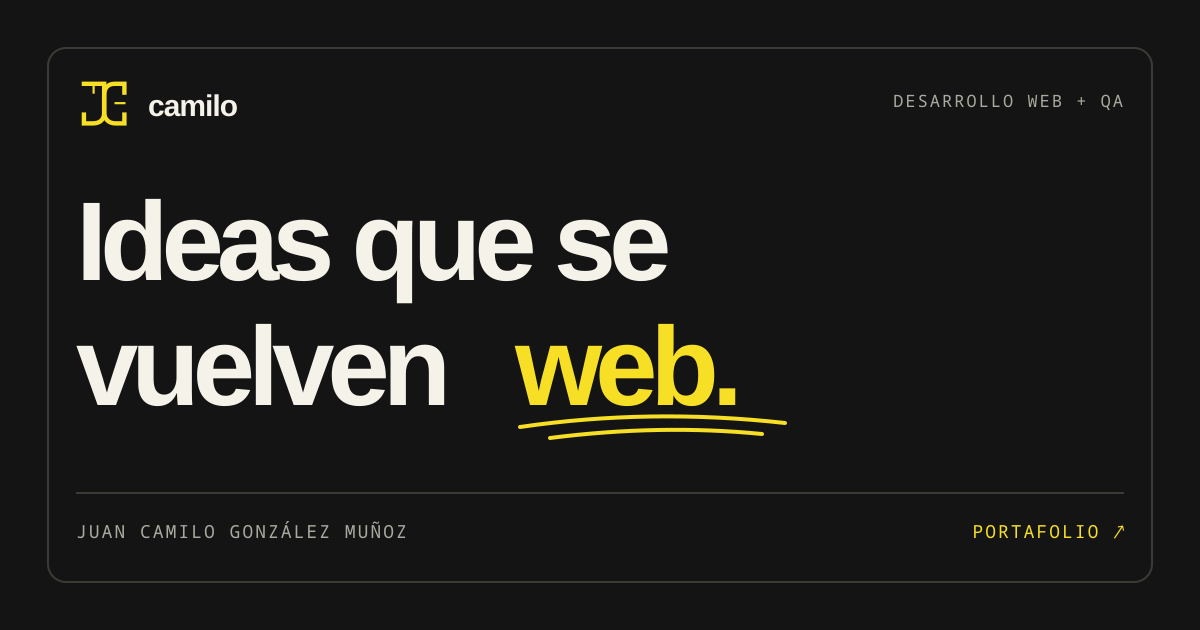
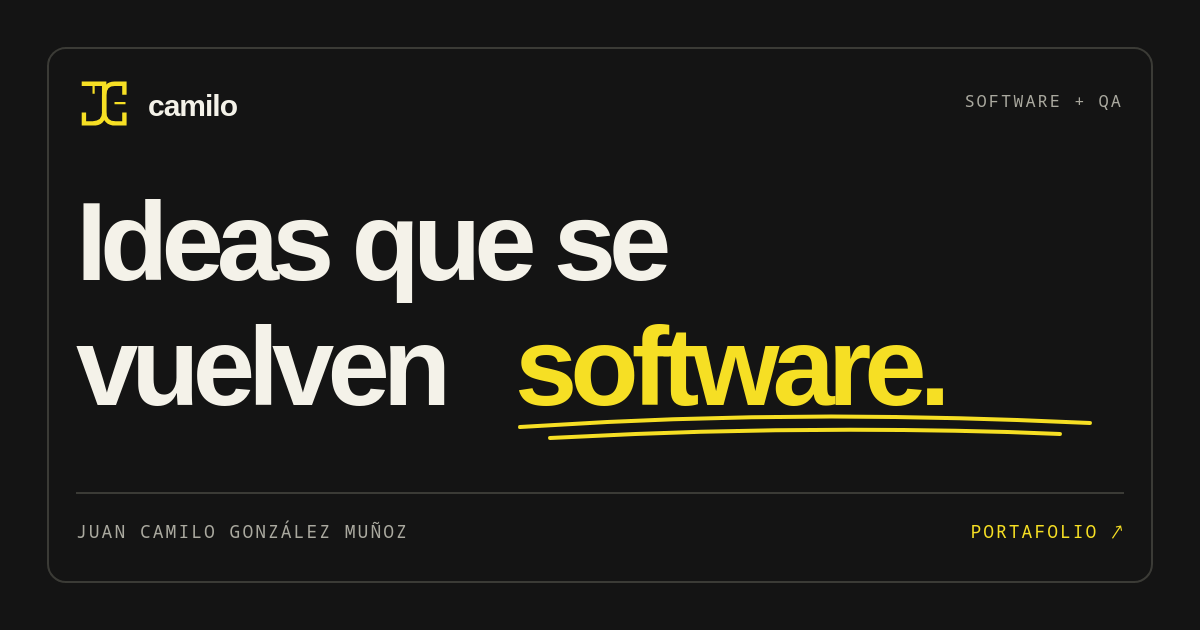
Refine software portfolio, character animations and section navigation

diff --git a/src/App.jsx b/src/App.jsx
@@ -1,4 +1,5 @@
 import { useEffect, useRef, useState } from 'react';
+import Character from './components/Character';
 import videoStore from './assets/video1.1.mp4';
 import videoBudget from './assets/video2.1.mp4';
 import videoAuraverse from './assets/video-auraverse.mp4';
@@ -67,38 +68,25 @@ function Brand() {
   </a>;
 }
 
-function Character() {
-  const [wink, setWink] = useState(false);
-  return <button className={`character ${wink ? 'is-winking' : ''}`} aria-label="Saludar al personaje" aria-pressed={wink} onClick={() => setWink(!wink)}>
-    <svg viewBox="0 0 320 340" fill="none" aria-hidden="true">
-      <ellipse cx="163" cy="318" rx="93" ry="10" fill="currentColor" opacity=".12" />
-      <g stroke="#151515" strokeWidth="7" strokeLinecap="round" strokeLinejoin="round">
-        <path d="M123 242L115 295 83 304Q76 317 96 316L128 314 146 249M189 243L206 297 237 305Q247 317 227 317L195 313 169 249" fill="#f6df24" />
-        <path d="M83 152Q35 175 44 221M231 151Q273 156 282 115M272 124L267 100M280 119L285 94M285 126L300 107" />
-        <path d="M46 216Q30 206 28 221L33 239M43 223L46 244M51 219L57 237" />
-        <rect x="77" y="54" width="164" height="202" rx="75" fill="#f6df24" transform="rotate(-9 159 155)" />
-        <path d="M124 176Q151 199 179 169" />
-      </g>
-      <g className="character-eyes" fill="#151515"><ellipse cx="123" cy="128" rx="10" ry="24" transform="rotate(-9 123 128)"/><ellipse className="wink-eye" cx="169" cy="121" rx="10" ry="24" transform="rotate(-9 169 121)"/></g>
-      <path d="M201 33L207 13M220 42L237 28M224 60L248 59" stroke="#f6df24" strokeWidth="5" strokeLinecap="round"/>
-    </svg>
-    <span className="character-note">Un poco de código.<br/>Mucha curiosidad.</span>
-  </button>;
-}
 
 export default function App() {
-  const tickerRef = useRef(null);
-  const firstTickerGroupRef = useRef(null);
+  const pageRef = useRef(null);
 
   useEffect(() => {
-    const mobile = window.matchMedia('(max-width: 500px), (pointer: coarse)');
-    const positionTicker = () => {
-      if (!tickerRef.current) return;
-      tickerRef.current.scrollLeft = mobile.matches ? firstTickerGroupRef.current?.offsetWidth ?? 0 : 0;
-    };
-    positionTicker();
-    mobile.addEventListener('change', positionTicker);
-    return () => mobile.removeEventListener('change', positionTicker);
+    const targets = pageRef.current.querySelectorAll('.section-heading, .project-layout, .about > div, .contact-title');
+    const observer = new IntersectionObserver((entries) => {
+      entries.forEach((entry) => {
+        if (entry.isIntersecting) {
+          entry.target.classList.add('is-visible');
+          observer.unobserve(entry.target);
+        }
+      });
+    }, { threshold: 0.08 });
+    targets.forEach((target) => {
+      target.classList.add('reveal');
+      observer.observe(target);
+    });
+    return () => observer.disconnect();
   }, []);
 
   return <>
@@ -107,15 +95,15 @@ export default function App() {
       <Brand />
       <nav aria-label="Navegación principal"><a href="#projects">Proyectos <span>{String(projects.length).padStart(2, '0')}</span></a><a href="#about">Sobre mí</a><a className="nav-contact" href="#contact">Hablemos <Arrow /></a></nav>
     </header>
-    <main>
+    <main ref={pageRef}>
       <section className="hero" id="inicio">
         <div className="hero-top eyebrow"><span>JUAN CAMILO GONZÁLEZ MUÑOZ</span><span className="availability"><i /> ABIERTO A OPORTUNIDADES</span></div>
-        <h1>Ideas que se<br/>vuelven <span className="web-word">web<svg viewBox="0 0 410 25" preserveAspectRatio="none" aria-hidden="true"><path d="M5 17Q177 -3 401 11M36 23Q197 5 375 20" /></svg></span><span className="period">.</span></h1>
-        <div className="hero-bottom"><div className="hero-copy"><p>Desarrollador de software.<br/>Construyo experiencias digitales que<br className="desktop-break"/> se ven bien y resuelven problemas reales.</p><a className="pill yellow" href="#projects">Explora mi trabajo <DownArrow /></a></div><Character /></div>
-        <div className="hero-foot eyebrow"><span>DESARROLLO WEB & UN TOQUE DE PERSONALIDAD</span><a href="#projects">SIGUE EXPLORANDO <DownArrow /></a></div>
+        <h1>Ideas que se<br/>vuelven <span className="software-word">software<svg viewBox="0 0 410 25" preserveAspectRatio="none" aria-hidden="true"><path d="M5 17Q177 -3 401 11M36 23Q197 5 375 20" /></svg></span><span className="period">.</span></h1>
+        <div className="hero-bottom"><div className="hero-copy"><p>Desarrollador de software.<br/>Me mueve resolver problemas complejos. <br className="desktop-break"/>Conecto lógica, datos e interfaces para <br className="desktop-break"/>construir software que tenga sentido.</p><a className="pill yellow" href="#projects">Explora mi trabajo <DownArrow /></a></div><Character /></div>
+        <div className="hero-foot eyebrow"><span>SOFTWARE, CURIOSIDAD & UN TOQUE DE PERSONALIDAD</span><a href="#projects">SIGUE EXPLORANDO <DownArrow /></a></div>
       </section>
-      <div ref={tickerRef} className="ticker" role="img" aria-label={`Tecnologías: ${technologies.join(', ')}`}>
-        <div aria-hidden="true">{[0, 1].map(copy => <span className="ticker-group" ref={copy === 0 ? firstTickerGroupRef : undefined} key={copy}>
+      <div className="ticker" role="img" aria-label={`Tecnologías: ${technologies.join(', ')}`}>
+        <div aria-hidden="true">{[0, 1].map(copy => <span className="ticker-group" key={copy}>
           {technologies.map(technology => <span className="ticker-item" key={technology}>{technology.toUpperCase()} <Sparkle /></span>)}
         </span>)}</div>
       </div>
@@ -134,7 +122,7 @@ export default function App() {
           <div className="project-layout"><div className="project-info"><h3>{project.name}</h3>{project.status && <span className="project-status"><i />{project.status}</span>}<p>{project.description}</p><dl className="project-context"><div><dt>MI APORTE</dt><dd>{project.contribution}</dd></div><div><dt>ENFOQUE</dt><dd>{project.focus}</dd></div><div><dt>BASE TÉCNICA</dt><dd>{project.implementation}</dd></div></dl><ul className="tags">{project.tech.map(tech => <li key={tech}>{tech}</li>)}</ul><a className="project-link" href={project.url} target="_blank" rel="noreferrer">Ver {project.name.replace(/\.$/, '')} <Arrow /></a></div><div className="project-preview"><div className="browser-bar" aria-hidden="true"><span className="browser-dots"><i /><i /><i /></span><span>{project.previewLabel}</span><Arrow /></div><video controls playsInline loading="lazy" preload="none" poster={project.poster} aria-label={project.number === '01' ? 'Recorrido por Inicio, Buscar, Batallas y Ranking de Auraverse' : `Vista previa de ${project.name}`} src={`${project.video}#t=0.1`} /><p className="preview-caption">{project.number === '01' ? 'INICIO · BUSCAR · BATALLAS · RANKING' : 'DALE PLAY Y MÍRALO EN ACCIÓN'} <PlayIcon /></p></div></div>
         </article>)}</div>
       </section>
-      <section className="about section-wrap" id="about"><div><p className="eyebrow">02 / DETRÁS DEL CÓDIGO</p><h2>Una mente curiosa.<br/>Manos en el <em>código.</em></h2><div className="about-sticker" aria-hidden="true">{ '</>' }</div></div><div className="about-copy"><p>Soy Juan Camilo, desarrollador de software con experiencia en QA y soporte TI. Me interesa construir aplicaciones útiles, cuidar su calidad y entender las necesidades de quienes las usan.</p><p>Trabajo con React, JavaScript y herramientas como Supabase para conectar la interfaz con lo que pasa detrás. Cada proyecto es una oportunidad para aprender, cuidar los detalles y construir algo mejor.</p><div className="experience-list" aria-label="Experiencia profesional">
+      <section className="about section-wrap" id="about"><div><p className="eyebrow">02 / DETRÁS DEL CÓDIGO</p><h2>Una mente curiosa.<br/>Manos en el <em>código.</em></h2><div className="about-sticker" aria-hidden="true">{ '</>' }</div></div><div className="about-copy"><p>Soy Juan Camilo, desarrollador de software con experiencia en QA y soporte TI. Me gusta entrar en problemas complejos, entender cómo encajan sus piezas y convertirlos en software útil. Mi experiencia en QA y soporte me enseñó a pensar también en lo que puede fallar y en quienes usan cada sistema.</p><p>Trabajo con React, Next.js, Nest.js y PostgreSQL para conectar interfaces, lógica de negocio y datos. Me interesa seguir creciendo en arquitectura de software y construir sistemas cada vez más sólidos, sin perder el cuidado por los detalles.</p><div className="experience-list" aria-label="Experiencia profesional">
           <h3>Experiencia y proyecto actual</h3>
           <article className="experience-item">
             <div className="experience-header"><h4>Auraverse</h4><span>Actualidad</span></div>
@@ -148,7 +136,7 @@ export default function App() {
             <div className="experience-header"><h4>Alcaldía de Armenia</h4><span>6 meses</span></div>
             <p>Mesa de ayuda y control de aplicativos institucionales · Armenia, Quindío</p>
           </article>
-        </div><a className="pill outline" href={cv} download="CV_Juan_Camilo.pdf">Descargar mi CV <DownArrow /></a><div className="about-details"><span>MI ENFOQUE</span><p>Interfaces cuidadas.<br/>Soluciones prácticas.<br/>Aprendizaje constante.</p></div></div></section>
+        </div><a className="pill outline" href={cv} download="CV_Juan_Camilo.pdf">Descargar mi CV <DownArrow /></a><div className="about-details"><span>MI ENFOQUE</span><p>Lógica y datos bien conectados.<br/>Calidad en cada detalle.<br/>Aprendizaje constante.</p></div></div></section>
       <section className="contact section-wrap" id="contact"><div className="contact-top eyebrow"><span>03 / EL SIGUIENTE PASO</span><span>¿TIENES ALGO EN MENTE?</span></div><a className="contact-title" href="mailto:camilo9171@gmail.com" aria-label="Escribir a Juan Camilo por correo"><h2>Hagamos<br/>algo <RotatingContactWord /></h2><span className="contact-arrow"><Arrow /></span></a><div className="contact-bottom"><p>Una idea, un proyecto o una oportunidad.<br/>Me encantará saber de ti.</p><div className="contact-options">
           <a className="contact-whatsapp" href="https://wa.me/573117863431" target="_blank" rel="noreferrer">Hablemos por WhatsApp <Arrow /></a>
           <a className="contact-email" href="mailto:camilo9171@gmail.com">camilo9171@gmail.com <Arrow /></a>

diff --git a/src/index.css b/src/index.css
@@ -9,7 +9,7 @@
   --line:#3b3b36}
 *{box-sizing:border-box}
 html{scroll-behavior:smooth;
-  scroll-padding-top:100px}
+  scroll-padding-top:0}
 body{margin:0}
 html,body,#root{min-width:0;max-width:100%}
 a{color:inherit;
@@ -76,9 +76,9 @@ h1{font-size:clamp(76px,10.7vw,178px);
   margin:65px 0 0;
   position:relative;
   z-index:1}
-.web-word{color:var(--yellow);
+.software-word{color:var(--yellow);
   position:relative}
-.web-word svg{position:absolute;
+.software-word svg{position:absolute;
   bottom:-8px;
   left:0;
   width:100%;
@@ -121,14 +121,14 @@ h1{font-size:clamp(76px,10.7vw,178px);
   color:var(--yellow)}
 .character svg{width:100%;
   transition:transform .3s}
-.character:hover svg{transform:rotate(-8deg) translateY(-8px)}
+
 .character-note{font-family:monospace;
   font-size:11px;
   line-height:1.5;
   display:block;
   transform:rotate(-7deg);
   color:#c4c2b6}
-.is-winking .wink-eye{transform:translateY(110px) scaleY(.1)}
+
 .hero-foot{padding:20px 0;
   display:flex;
   justify-content:space-between;
@@ -431,7 +431,7 @@ nav .nav-contact{border:none;
   margin-top:20px;
   font-size:19px}
 .footer>div{gap:14px}
-.web-word svg{height:12px;
+.software-word svg{height:12px;
   bottom:-5px}
 }
 @media(prefers-reduced-motion:reduce){html{scroll-behavior:auto}
@@ -479,9 +479,9 @@ nav .nav-contact{border:none;
 .contact-word.is-leaving{animation:contact-word-exit .3s ease-in both}
 @keyframes contact-word-enter{from{opacity:0;transform:translateY(.22em) rotate(2deg)}to{opacity:1;transform:translateY(0) rotate(0)}}
 @keyframes contact-word-exit{from{opacity:1;transform:translateY(0) rotate(0)}to{opacity:0;transform:translateY(-.16em) rotate(-2deg)}}
-.web-word svg path{stroke-dasharray:900;stroke-dashoffset:900;animation:web-underline-draw .85s .15s ease-out forwards}
-@keyframes web-underline-draw{to{stroke-dashoffset:0}}
-@media(prefers-reduced-motion:reduce){.web-word svg path{stroke-dashoffset:0}}
+.software-word svg path{stroke-dasharray:900;stroke-dashoffset:900;animation:software-underline-draw .85s .15s ease-out forwards}
+@keyframes software-underline-draw{to{stroke-dashoffset:0}}
+@media(prefers-reduced-motion:reduce){.software-word svg path{stroke-dashoffset:0}}
 
 .project-context{display:grid;gap:12px;margin:22px 0 0;padding:18px 0 0;border-top:1px solid #505046}
 .project-context>div{display:grid;grid-template-columns:75px 1fr;gap:12px}
@@ -489,4 +489,65 @@ nav .nav-contact{border:none;
 .project-context dd{margin:0;color:#c0bfb2;font-size:12px;line-height:1.5}
 @media(max-width:500px){.project-context>div{grid-template-columns:68px 1fr;gap:8px}}
 @media(max-width:500px){.contact-word-measure.is-long,.contact-word-long{font-size:.55em}}
-@media(max-width:500px),(pointer:coarse){.ticker{overflow-x:auto;overflow-y:hidden;-webkit-overflow-scrolling:touch;scrollbar-width:none}.ticker::-webkit-scrollbar{display:none}.ticker>div{animation:none}}
+
+
+/* The same motion language on touch, keyboard and pointer devices. */
+.hero h1{font-size:clamp(58px,9.5vw,158px)}
+.software-word{display:inline-block}
+.hero-top{animation:soft-enter .7s both}
+.hero h1{animation:soft-enter .85s .1s both}
+.hero-copy{animation:soft-enter .85s .2s both}
+.character{padding:0;touch-action:manipulation}
+.character svg{display:block;overflow:visible}
+.character-body{transform-origin:160px 315px;animation:character-idle 4.8s ease-in-out infinite}
+.character-shadow{transform-origin:163px 328px;animation:shadow-breathe 4.8s ease-in-out infinite}
+.character-right-arm{transform-origin:231px 151px;animation:character-wave 6s ease-in-out infinite}
+.character-left-arm{transform-origin:83px 152px}
+.character-gaze{transform:translate(var(--look-x,0px),var(--look-y,0px));transition:transform .15s}
+.character-eyes{transform-origin:146px 125px;animation:character-blink 5.5s infinite}
+.character-note{min-height:3em;max-width:210px;margin:0 auto}
+.character-hint{display:block;margin-top:6px;color:var(--yellow);font:8px monospace;letter-spacing:1px;transform:rotate(-7deg)}
+.character-sparks{transform-origin:220px 45px;animation:spark-pulse 3s ease-in-out infinite}
+.character-laptop,.character-code-bits{opacity:0;transition:opacity .2s,transform .3s;transform:translateY(12px)}
+.character-wave .character-right-arm{animation:hello-wave .45s ease-in-out infinite alternate}
+.character-jump .character-body{animation:character-jump .8s ease-in-out 3}
+.character-jump .character-shadow{animation:jump-shadow .8s ease-in-out 3}
+.character-jump .character-right-arm{animation:none;transform:none}
+.character-code .character-laptop,.character-code .character-code-bits{opacity:1;transform:translateY(0)}
+.character-code .character-right-arm{animation:none;transform:rotate(75deg)}
+.character-code .character-code-symbol{animation:code-type .6s steps(2,end) infinite}
+.character-code .character-code-bits{animation:code-float 1.2s ease-in-out infinite alternate}
+.reveal{opacity:0;transform:translateY(24px);transition:opacity .7s,transform .7s cubic-bezier(.2,.7,.2,1)}
+.reveal.is-visible,.reveal:focus-within{opacity:1;transform:translateY(0)}
+.about-sticker{animation:sticker-rock 6s ease-in-out infinite}
+.project-link:hover .icon-arrow,.project-link:focus-visible .icon-arrow{transform:translate(4px,-4px)}
+.project-link .icon-arrow{transition:transform .25s}
+@keyframes soft-enter{from{opacity:0;transform:translateY(18px)}to{opacity:1;transform:translateY(0)}}
+@keyframes character-idle{0%,100%{transform:translateY(0) rotate(-2deg)}50%{transform:translateY(-9px) rotate(2deg)}}
+@keyframes shadow-breathe{50%{transform:scaleX(.88);opacity:.08}}
+@keyframes character-wave{0%,60%,100%{transform:rotate(0)}68%,84%{transform:rotate(-16deg)}76%,92%{transform:rotate(9deg)}}
+@keyframes hello-wave{from{transform:rotate(-22deg)}to{transform:rotate(14deg)}}
+@keyframes character-blink{0%,43%,47%,100%{transform:scaleY(1)}45%{transform:scaleY(.08)}}
+@keyframes spark-pulse{0%,100%{opacity:.45;transform:scale(.9)}50%{opacity:1;transform:scale(1.08)}}
+@keyframes character-jump{0%,100%{transform:translateY(0) scale(1)}15%{transform:scale(1.06,.9)}48%{transform:translateY(-36px) rotate(-8deg)}80%{transform:scale(1.08,.92)}}
+@keyframes jump-shadow{48%{transform:scaleX(.6);opacity:.05}}
+@keyframes code-type{50%{opacity:.35}}
+@keyframes code-float{to{transform:translateY(-8px)}}
+@keyframes sticker-rock{0%,100%{transform:rotate(-12deg)}50%{transform:rotate(-4deg) translateY(-5px)}}
+@media(min-width:1100px) and (max-height:849px){.hero h1{font-size:min(9.5vw,16vh)}}
+@media(max-width:800px){.hero h1{font-size:10.8vw}.character{bottom:18px}}
+@media(max-width:500px){.hero h1{font-size:10.8vw}.hero-bottom{min-height:360px}.character{bottom:14px;width:145px}.character-note{max-width:140px}.character-hint{font-size:7px;letter-spacing:.4px}.about-sticker{display:grid;width:75px;height:75px;font-size:27px;margin-top:30px}.ticker>div{animation-duration:85s}}
+@media(max-width:360px){.hero-bottom{min-height:385px}.character{width:135px}}
+@media(hover:none){.ticker:hover>div{animation-play-state:running}}
+@media(prefers-reduced-motion:reduce){.reveal{opacity:1;transform:none}.character-body,.character-right-arm,.character-shadow,.character-gaze{transform:none}.character-jump .character-right-arm{animation:none;transform:none}}
+
+@media(max-width:500px){.hero-copy p{max-width:290px}.desktop-break{display:none}.hero-copy .pill{margin-top:22px}}
+
+/* Align anchor links with the content, accounting for each section's padding. */
+.section-wrap[id]{scroll-margin-top:calc(28px - var(--anchor-inset,110px))}
+.about{--anchor-inset:90px}
+.contact{--anchor-inset:40px}
+.character-wink-eye{transform-origin:169px 121px;transition:transform .18s ease-in-out}
+.character-wink .character-eyes{animation:none}
+.character-wink .character-wink-eye{transform:scaleY(.12)}
+@media(max-width:800px){.section-wrap[id]{--anchor-inset:70px}.contact[id]{--anchor-inset:30px}}

diff --git a/src/components/Character.jsx b/src/components/Character.jsx
@@ -1,0 +1,62 @@
+import { useEffect, useRef, useState } from 'react';
+
+const actions = ['wave', 'jump', 'code', 'wink'];
+const captions = {
+  idle: 'Un poco de código. Mucha curiosidad.',
+  wave: '¡Ey! Qué bueno verte por aquí.',
+  jump: '¡Ese bug ya quedó resuelto!',
+  code: 'Una idea. Muchas posibilidades.',
+  wink: 'Tú y yo nos entendemos.',
+};
+
+export default function Character() {
+  const [action, setAction] = useState('idle');
+  const nextAction = useRef(0);
+  const timer = useRef();
+  const characterRef = useRef(null);
+
+  useEffect(() => () => window.clearTimeout(timer.current), []);
+
+  function perform() {
+    window.clearTimeout(timer.current);
+    setAction(actions[nextAction.current % actions.length]);
+    nextAction.current += 1;
+    timer.current = window.setTimeout(() => setAction('idle'), 2400);
+  }
+
+  function look(event) {
+    if (event.pointerType !== 'mouse') return;
+    const box = event.currentTarget.getBoundingClientRect();
+    characterRef.current.style.setProperty('--look-x', `${((event.clientX - box.left) / box.width - 0.5) * 9}px`);
+    characterRef.current.style.setProperty('--look-y', `${((event.clientY - box.top) / box.height - 0.5) * 7}px`);
+  }
+
+  function resetLook() {
+    characterRef.current.style.setProperty('--look-x', '0px');
+    characterRef.current.style.setProperty('--look-y', '0px');
+  }
+
+  return <button ref={characterRef} type="button" className={`character character-${action}`} aria-label="Animar al personaje: saludar, saltar, programar o guiñar el ojo" onClick={perform} onPointerMove={look} onPointerLeave={resetLook}>
+    <svg viewBox="0 0 320 350" fill="none" aria-hidden="true">
+      <ellipse className="character-shadow" cx="163" cy="328" rx="80" ry="9" fill="currentColor" opacity=".12" />
+      <g className="character-body">
+        <g stroke="#151515" strokeWidth="7" strokeLinecap="round" strokeLinejoin="round">
+          <path d="M123 242L115 295 83 304Q76 317 96 316L128 314 146 249M189 243L206 297 237 305Q247 317 227 317L195 313 169 249" fill="#f6df24" />
+          <g className="character-left-arm" stroke="#f6df24"><path d={action === 'jump' ? "M83 152Q48 151 47 111M47 111C34 112 31 103 35 94Q40 86 45 95Q48 83 54 88Q61 94 57 104Z" : "M83 152Q35 175 44 221M46 216Q30 206 28 221L33 239M43 223L46 244M51 219L57 237"} /></g>
+          <g className="character-right-arm" stroke="#f6df24"><path d={action === 'jump' ? "M231 151Q268 149 271 111M271 111C284 112 287 103 283 94Q278 86 273 95Q270 83 264 88Q257 94 261 104Z" : "M231 151Q273 156 282 115M272 124L267 100M280 119L285 94M285 126L300 107"} /></g>
+          <rect x="77" y="54" width="164" height="202" rx="75" fill="#f6df24" transform="rotate(-9 159 155)" />
+          <path className="character-smile" d="M124 176Q151 199 179 169" />
+        </g>
+        <g className="character-gaze"><g className="character-eyes" fill="#151515"><ellipse cx="123" cy="128" rx="10" ry="24" transform="rotate(-9 123 128)"/><g className="character-wink-eye"><ellipse cx="169" cy="121" rx="10" ry="24" transform="rotate(-9 169 121)"/></g></g></g>
+        <g className="character-laptop" stroke="#151515" strokeWidth="5" strokeLinejoin="round">
+          <path d="M88 204H228L215 278H101Z" fill="#f4f2e9"/><path d="M87 279H230" strokeLinecap="round"/>
+          <path className="character-code-symbol" d="m143 232-10 9 10 9m30-18 10 9-10 9m-11-23-8 27" fill="none" strokeWidth="4" />
+        </g>
+      </g>
+      <g className="character-sparks" stroke="#f6df24" strokeWidth="5" strokeLinecap="round"><path d="M201 33L207 13M220 42L237 28M224 60L248 59"/></g>
+      <g className="character-code-bits" fill="#f6df24" fontFamily="monospace" fontSize="22"><text x="22" y="92">{'{ }'}</text><text x="244" y="210">{'</>'}</text></g>
+    </svg>
+    <span className="character-note" aria-live="polite">{captions[action]}</span>
+    <span className="character-hint">TÓCAME · TENGO IDEAS <span aria-hidden="true">↗</span></span>
+  </button>;
+}

diff --git a/index.html b/index.html
@@ -6,22 +6,22 @@
   <link rel="icon" type="image/svg+xml" href="/monogram.svg" />
   <meta name="viewport" content="width=device-width, initial-scale=1.0" />
   <meta name="theme-color" content="#141414" />
-  <meta name="description" content="Juan Camilo González Muñoz. Desarrollador de software: aplicaciones web con React, JavaScript y Supabase. Explora mis proyectos y hablemos." />
+  <meta name="description" content="Juan Camilo González Muñoz. Desarrollador de software: lógica, datos e interfaces para resolver problemas complejos. Explora mis proyectos y hablemos." />
   <meta property="og:type" content="website" />
   <meta property="og:locale" content="es_CO" />
   <meta property="og:site_name" content="Juan Camilo" />
-  <meta property="og:title" content="Juan Camilo — Desarrollo web con personalidad" />
-  <meta property="og:description" content="Ideas que se vuelven web. Conoce mis proyectos de desarrollo y hablemos." />
+  <meta property="og:title" content="Juan Camilo — Desarrollo de software con personalidad" />
+  <meta property="og:description" content="Ideas que se vuelven software. Conoce mis proyectos de desarrollo y hablemos." />
   <meta property="og:url" content="https://juancamilo-nine.vercel.app/" />
   <meta property="og:image" content="https://juancamilo-nine.vercel.app/social-card.png" />
   <meta property="og:image:width" content="1200" />
   <meta property="og:image:height" content="630" />
-  <meta property="og:image:alt" content="Juan Camilo: Ideas que se vuelven web, sobre fondo negro con acentos amarillos." />
+  <meta property="og:image:alt" content="Juan Camilo: Ideas que se vuelven software, sobre fondo negro con acentos amarillos." />
   <meta name="twitter:card" content="summary_large_image" />
-  <meta name="twitter:title" content="Juan Camilo — Desarrollo web con personalidad" />
-  <meta name="twitter:description" content="Ideas que se vuelven web. Conoce mis proyectos de desarrollo y hablemos." />
+  <meta name="twitter:title" content="Juan Camilo — Desarrollo de software con personalidad" />
+  <meta name="twitter:description" content="Ideas que se vuelven software. Conoce mis proyectos de desarrollo y hablemos." />
   <meta name="twitter:image" content="https://juancamilo-nine.vercel.app/social-card.png" />
-  <title>Juan Camilo — Desarrollo web con personalidad</title>
+  <title>Juan Camilo — Desarrollo de software con personalidad</title>
 </head>
 
 <body>
